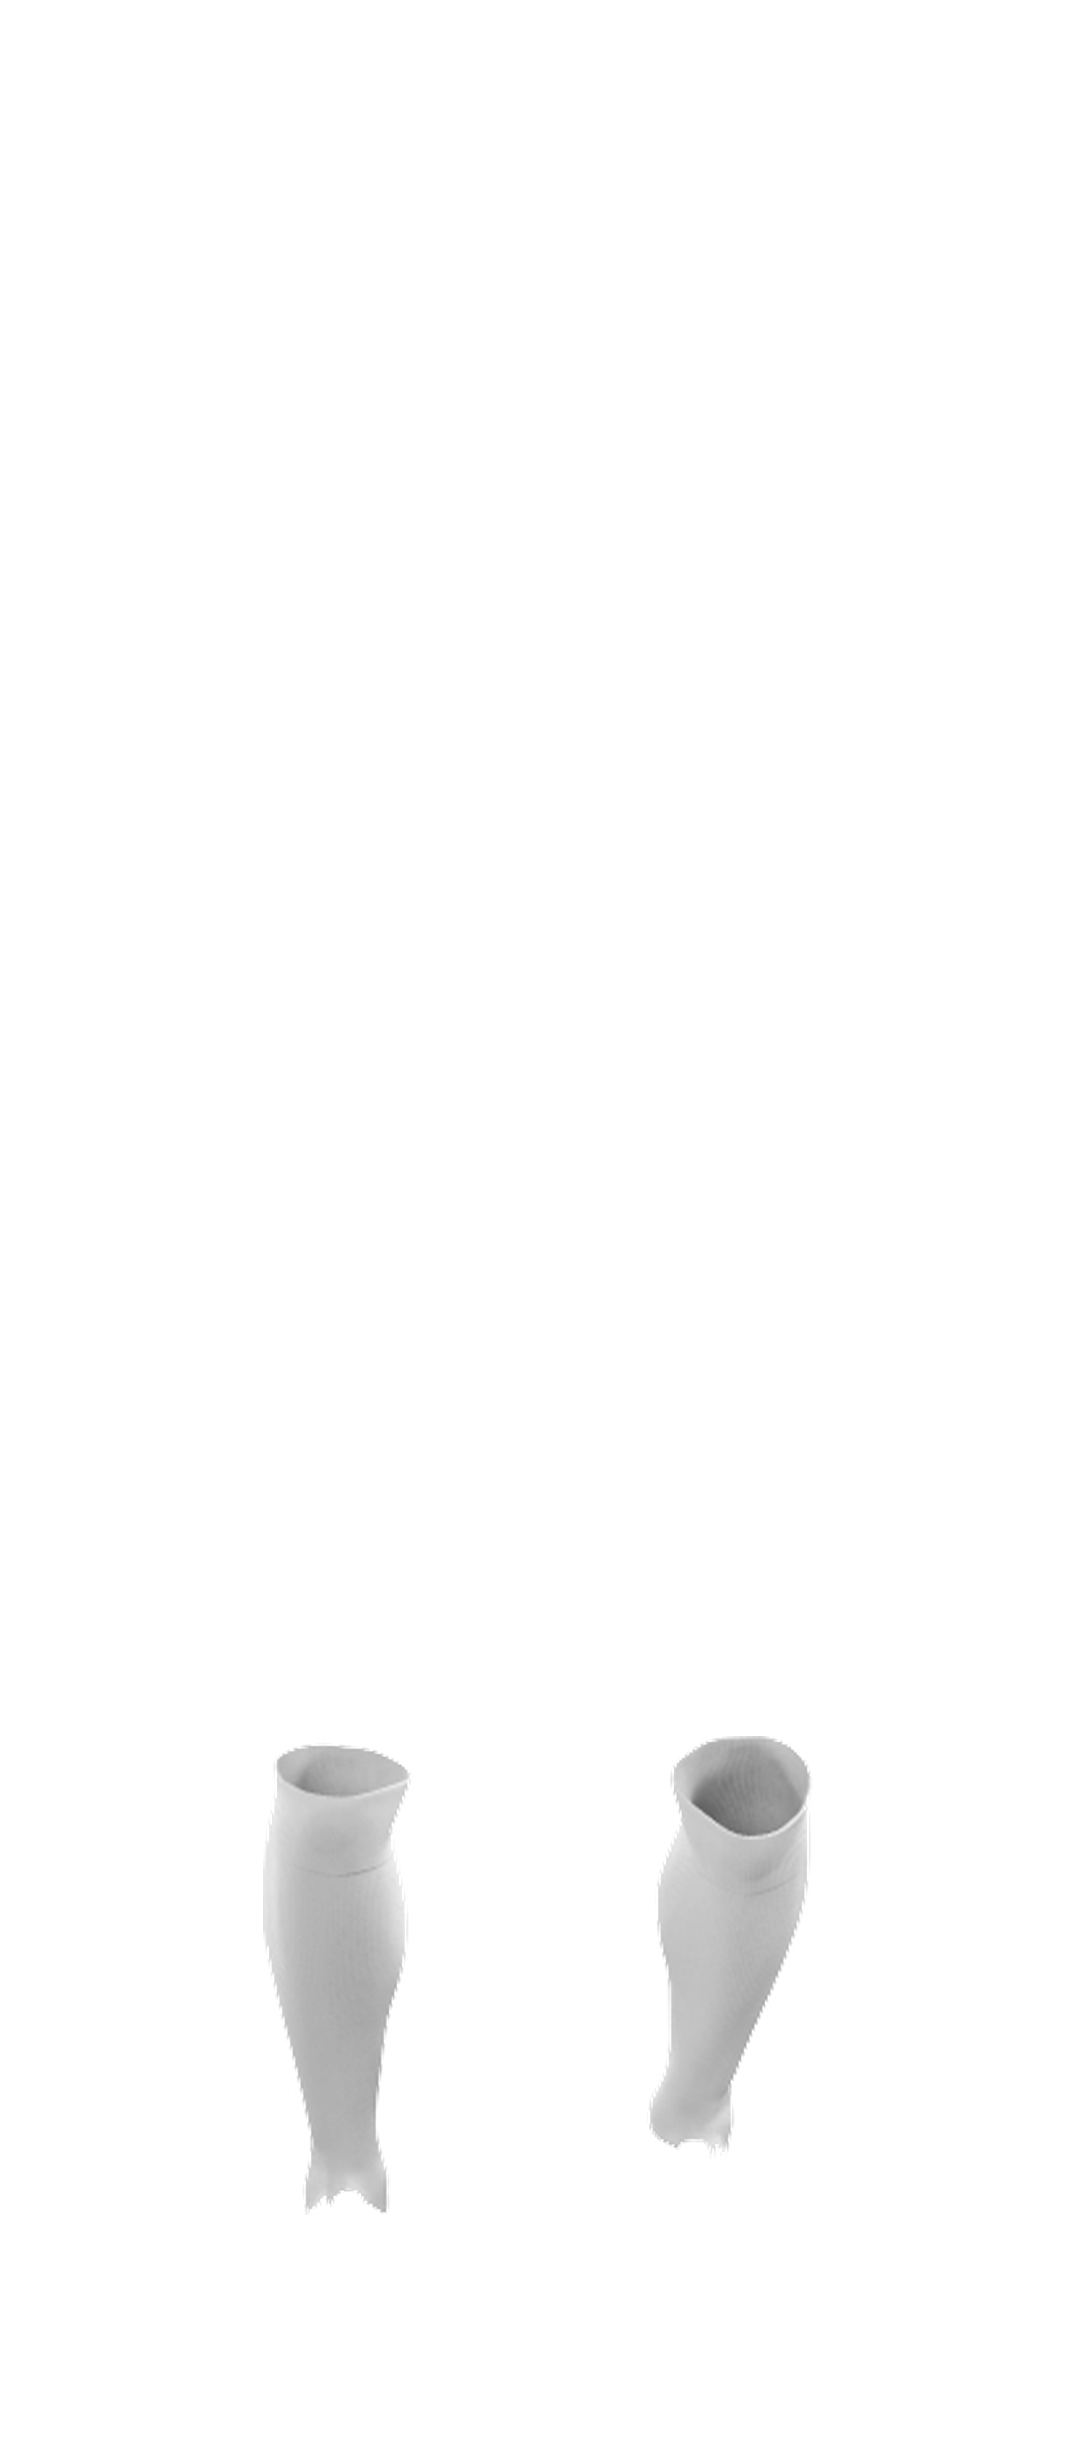
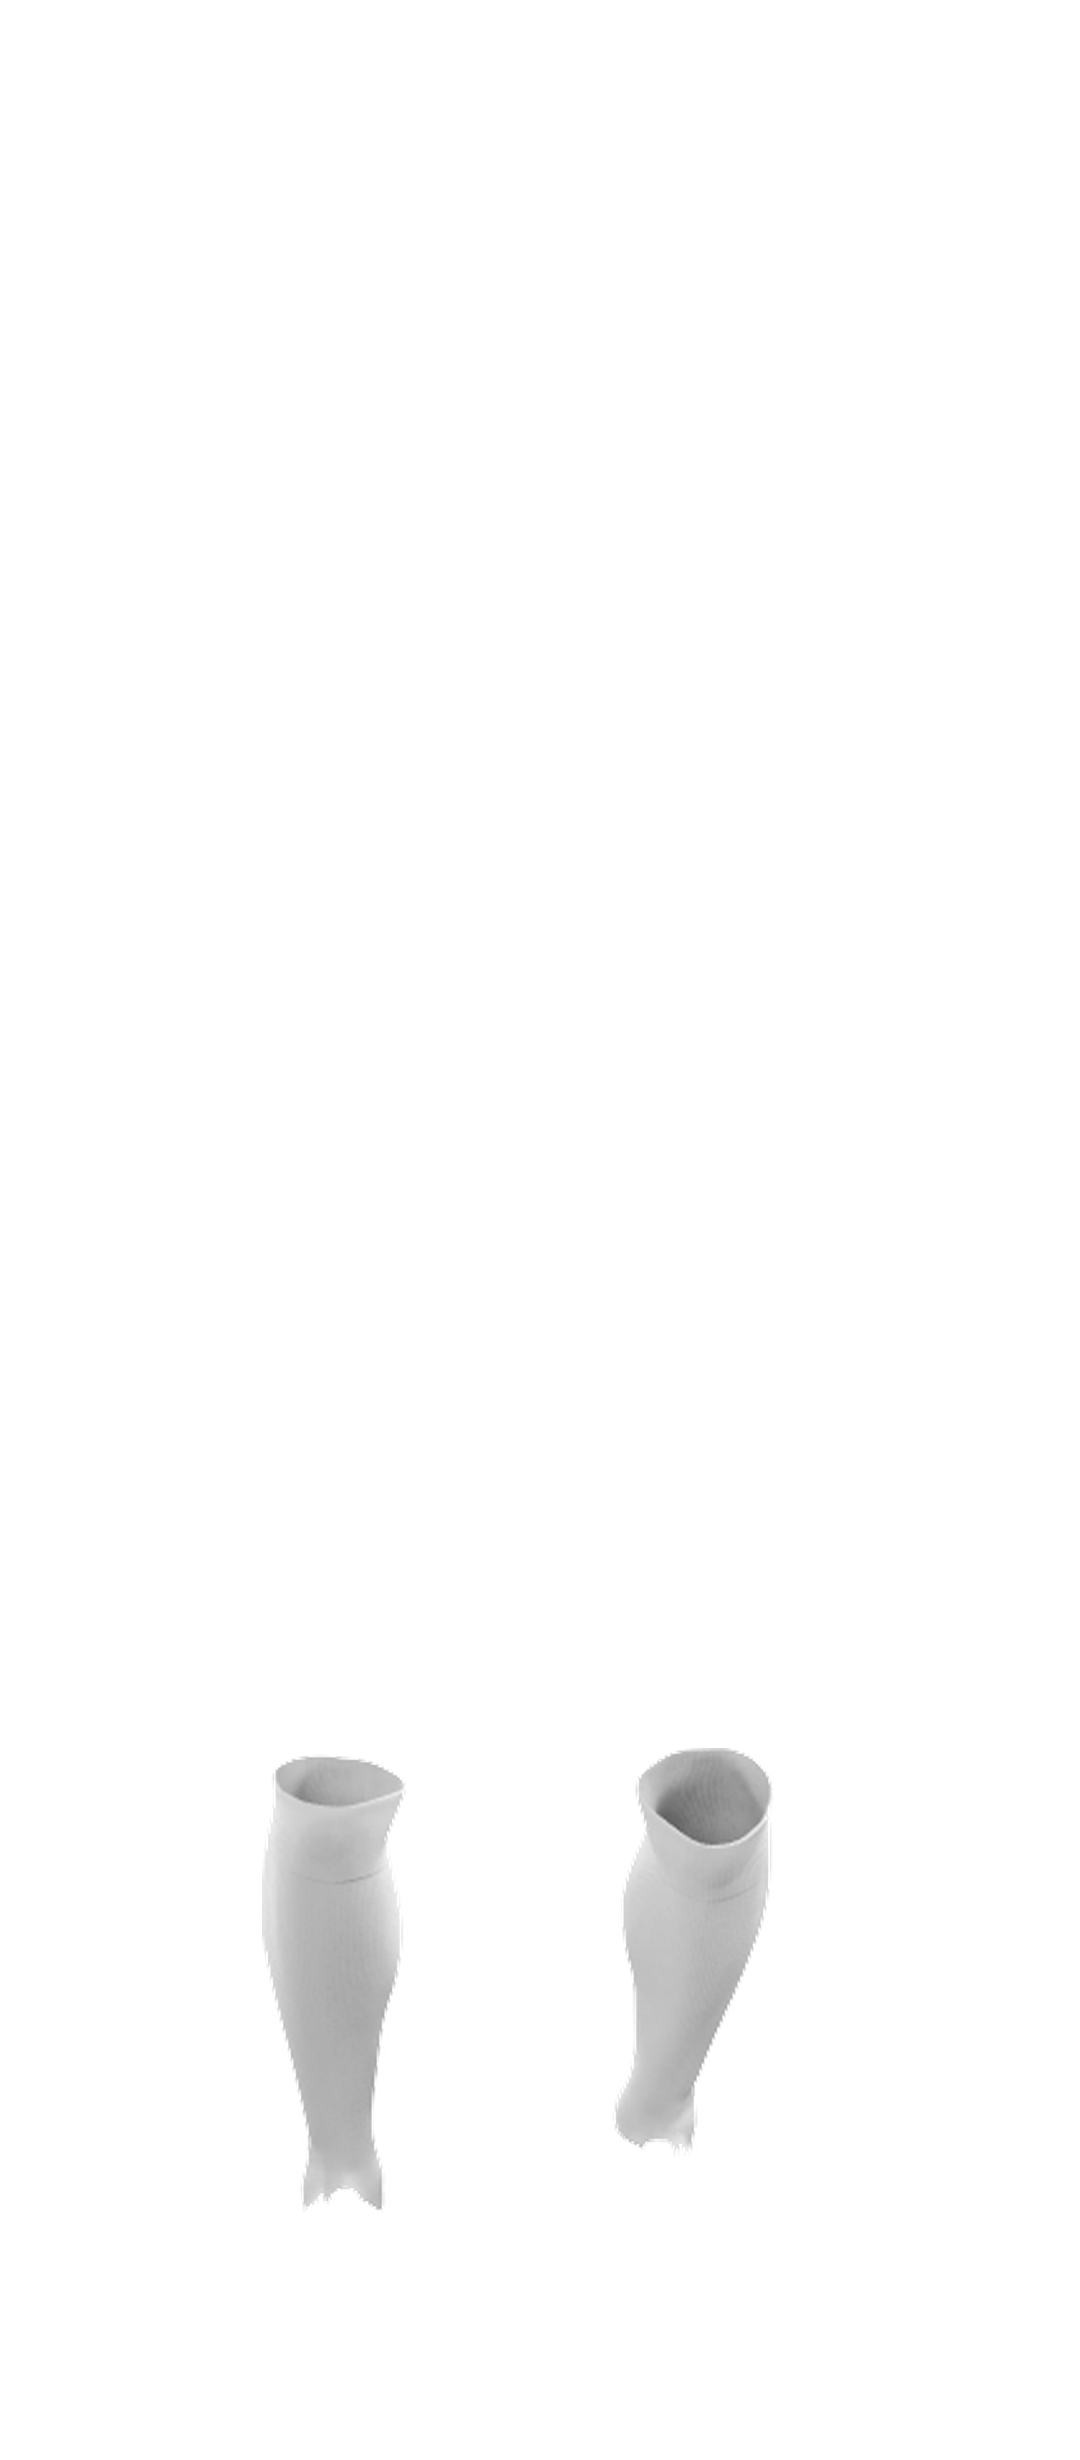
Jogador recortado por zonas de pele: kit da foto apagado
A abordagem anterior falhava porque o kit da foto ficava por baixo e
espreitava nas folgas com as cores antigas. Agora o jogador é recortado
ao CORPO — pele (R>G>B com margem, excluindo o vermelho forte do kit),
mais duas bandas onde se guarda tudo: topo (cabeça) e fundo (chuteiras).
Uma abertura morfológica come as lascas das costuras.

Ficam à vista cabeça, braços, joelhos e botas; as nossas peças são a
única roupa e recolorem sem denunciar a foto (verificado: 0 pixéis
vermelhos no recorte, e um kit azul/amarelo sai limpo).

As escalas e topos das peças passam a ser resolvidos a partir das
FRONTEIRAS DE PELE medidas — gola no pescoço, bainha das mangas na
cava, calção no topo do joelho, cano da meia sob o joelho, pé na bota.

Changed region(s): [[0.55, 0.6797, 0.7639, 0.8959], [0.2444, 0.7106, 0.3667, 0.7415], [0.3361, 0.8033, 0.3667, 0.8959]]

diff --git a/src/lib/kitReal.ts b/src/lib/kitReal.ts
@@ -73,16 +73,16 @@ const CAIXAS_PADRAO: Record<PecaKit, Record<LadoKit, Caixa>> = {
     (cozedura de moldes/jog — perfil "jogador" do montar-originais.py). */
 const CAIXAS_JOGADOR: Record<PecaKit, Record<LadoKit, Caixa>> = {
   camisola: {
-    frente: { x: 372, y: 434, w: 341, h: 674 },
-    verso: { x: 368, y: 435, w: 343, h: 680 },
+    frente: { x: 347, y: 475, w: 392, h: 771 },
+    verso: { x: 343, y: 475, w: 393, h: 779 },
   },
   calcao: {
-    frente: { x: 301, y: 1200, w: 478, h: 393 },
-    verso: { x: 292, y: 1200, w: 496, h: 388 },
+    frente: { x: 254, y: 1200, w: 572, h: 471 },
+    verso: { x: 243, y: 1200, w: 594, h: 465 },
   },
   meiao: {
-    frente: { x: 329, y: 1736, w: 422, h: 496 },
-    verso: { x: 258, y: 1796, w: 565, h: 480 },
+    frente: { x: 268, y: 1748, w: 545, h: 481 },
+    verso: { x: 290, y: 1748, w: 520, h: 465 },
   },
 };
 
@@ -90,7 +90,7 @@ const CAIXAS = VARIANTE_JOGADOR ? CAIXAS_JOGADOR : CAIXAS_PADRAO;
 
 /** Janela da miniatura quadrada, por peça (sobre a caixa da frente). */
 const AMOSTRAS: Record<PecaKit, string> = VARIANTE_JOGADOR
-  ? { camisola: '395 460 290 500', calcao: '330 1240 340 350', meiao: '345 1750 320 400' }
+  ? { camisola: '360 500 360 620', calcao: '270 1220 520 420', meiao: '280 1760 500 420' }
   : { camisola: '340 200 400 700', calcao: '260 990 400 450', meiao: '300 1650 400 550' };
 
 function naCaixa(tema: Tema, svg: string, c: Caixa, lado: LadoKit, peca: PecaKit): string {

diff --git a/scripts/recortar-jogador.py b/scripts/recortar-jogador.py
@@ -1,0 +1,97 @@
+"""
+Prepara o jogador do ambiente de teste (?lab=jogador): apaga o KIT da foto
+e deixa só o corpo — cabeça, braços, joelhos e chuteiras.
+
+Porquê: enquanto o kit da foto ficar por baixo, ele espreita nas folgas das
+nossas peças e denuncia as cores antigas. Removido o kit, as nossas peças
+são a única roupa e podem recolorir à vontade; basta que cubram as fronteiras
+de pele (gola, cava, coxa, cano da meia), o que é fácil porque sobrepor um
+pouco de pele lê-se como manga/calção mais compridos.
+
+O corpo é reconhecido por PELE (R>G>B com margem), mais duas bandas onde se
+guarda tudo: o topo (cabelo/cabeça) e o fundo (chuteiras).
+
+    python3 scripts/recortar-jogador.py <pasta com jogcut-{lado}.png>
+"""
+import os
+import sys
+
+import numpy as np
+from PIL import Image, ImageFilter
+
+# bandas verticais, em fração da altura do recorte
+BANDA_CABECA = 0.155     # até aqui guarda tudo (cabelo + rosto + pescoço)
+BANDA_BOTAS = 0.915      # a partir daqui guarda tudo (chuteiras)
+
+
+def pele(a):
+    """Máscara de pele: R>G>B com margem, nem muito escura nem lavada.
+
+    O `r - b < 110` exclui o vermelho forte do kit da foto (r-b ~170),
+    que de outra forma passaria por pele nas orlas das riscas."""
+    r, g, b = a[..., 0].astype(int), a[..., 1].astype(int), a[..., 2].astype(int)
+    lum = (r + g + b) / 3
+    return ((a[..., 3] > 60) & (r > g) & (g >= b)
+            & (r - b > 18) & (r - b < 110) & (lum > 55) & (lum < 225))
+
+
+def recortar(caminho, saida):
+    im = Image.open(caminho).convert('RGBA')
+    im = im.crop(im.getchannel('A').getbbox())
+    a = np.array(im)
+    h = a.shape[0]
+
+    r, g, b = a[..., 0].astype(int), a[..., 1].astype(int), a[..., 2].astype(int)
+    # vermelho forte do kit: some sempre, mesmo nas bandas de "guardar tudo"
+    # (na banda das botas sobrava a barra vermelha do fundo da meia)
+    kit_vermelho = (r > 110) & (r - g > 60) & (r - b > 60)
+    # dilatar: a orla suavizada da máscara traria de volta pixels vermelhos
+    kit_vermelho = np.array(
+        Image.fromarray((kit_vermelho * 255).astype('uint8')).filter(ImageFilter.MaxFilter(7))
+    ) > 127
+
+    corpo = pele(a)
+    corpo[: int(h * BANDA_CABECA)] = a[: int(h * BANDA_CABECA), :, 3] > 60
+    corpo[int(h * BANDA_BOTAS):] = a[int(h * BANDA_BOTAS):, :, 3] > 60
+    corpo &= ~kit_vermelho
+
+    m = Image.fromarray((corpo * 255).astype('uint8'))
+    # abertura: come as lascas finas das costuras do kit (2-4 px) sem
+    # comer os braços; depois fecho, para tapar sombras dentro da pele
+    m = m.filter(ImageFilter.MinFilter(9)).filter(ImageFilter.MaxFilter(9))
+    m = m.filter(ImageFilter.MaxFilter(7)).filter(ImageFilter.MinFilter(7))
+    m = m.filter(ImageFilter.GaussianBlur(1.2))
+
+    a[..., 3] = (a[..., 3].astype(np.float32) * (np.array(m) / 255.0)).astype(np.uint8)
+    out = Image.fromarray(a)
+    out = out.crop(out.getchannel('A').getbbox())
+    out.save(saida)
+    print(f'{os.path.basename(saida)}: {out.width}x{out.height}')
+    return out
+
+
+def marcos(im):
+    """Fronteiras onde as nossas peças têm de chegar (fração da altura)."""
+    a = np.array(im.getchannel('A'))
+    h, w = a.shape
+    linhas = (a > 60).sum(1)
+    cheio = np.where(linhas > 0)[0]
+    print('   perfil (fração da altura → largura ocupada):')
+    for f in (0.10, 0.20, 0.30, 0.40, 0.50, 0.60, 0.70, 0.80, 0.90):
+        y = int(h * f)
+        xs = np.where(a[y] > 60)[0]
+        if len(xs):
+            print(f'     {f:.2f}: x {xs.min():4d}..{xs.max():4d}  '
+                  f'ocupado {linhas[y]:4d}px')
+    return cheio
+
+
+if __name__ == '__main__':
+    pasta = sys.argv[1]
+    os.chdir(os.path.dirname(os.path.dirname(os.path.abspath(__file__))))
+    os.makedirs('public/moldes/jog', exist_ok=True)
+    for lado in ('frente', 'verso'):
+        print(f'--- {lado} ---')
+        im = recortar(f'{pasta}/jogcut-{lado}.png',
+                      f'public/moldes/jog/jogador-{lado}.png')
+        marcos(im)

diff --git a/scripts/montar-originais.py b/scripts/montar-originais.py
@@ -38,14 +38,18 @@ PERFIS = {
         topos={'camisa': 8, 'calcao': 244, 'meiao': 405},
         botas=True,
     ),
+    # Escalas e topos resolvidos a partir das FRONTEIRAS DE PELE do jogador
+    # recortado (scripts/recortar-jogador.py): gola no pescoço (y104), bainha
+    # das mangas na cava (y193), bainha do calção no topo do joelho (y418),
+    # cano da meia sob o joelho (y437) e pé dentro da bota (y557).
     'jogador': dict(
         saida='public/moldes/jog',
-        fatores={'camisa': 0.62, 'calcao': 0.66, 'meiao': 0.66},
-        topos={'camisa': 94, 'calcao': 300, 'meiao': 434},
+        fatores={'camisa': 0.71, 'calcao': 0.79, 'meiao': 0.64},
+        topos={'camisa': 102, 'calcao': 300, 'meiao': 437},
         botas=False,
-        # pernas do jogador recortado (wrapper x, medidas no alfa): cada
-        # meia do par ancora à sua perna — divisão só de posicionamento
-        pernas={'frente': (84.6, 182.3), 'verso': (79.8, 185.3)},
+        # joelhos do jogador (wrapper x): cada meia do par ancora à sua
+        # perna — divisão só de posicionamento, pixels intactos
+        pernas={'frente': (83.9, 173.2), 'verso': (90.9, 177.3)},
     ),
 }
 PERFIL = PERFIS['padrao']
